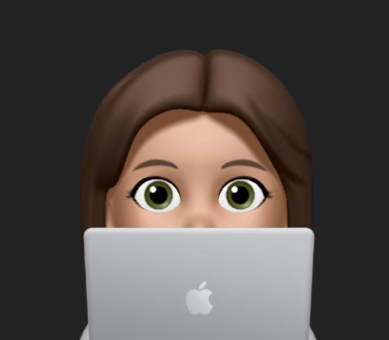
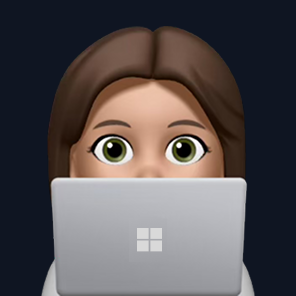
img + disabled theme mode + fond

Changed region(s): [[0.1216, 0.0912, 0.8818, 1.0], [0.4561, 0.7601, 0.5473, 0.9426]]

diff --git a/lib/project.dart b/lib/project.dart
@@ -38,7 +38,7 @@ class _ProjectWidgetState extends State<ProjectWidget> {
             Project(title : "Nutrimeal - Application de partage de recettes", img :"assets/images/nutrimeal_green.png", description: "Nutrimeal est une application mobile développée en Flutter qui permet de créer et de gérer un carnet de recettes personnalisé. Elle offre la possibilité d’ajouter de nombreux détails à chaque recette, comme le temps de préparation, les valeurs nutritionnelles et une note d’évaluation."  ,),
             Project(title : "Chachoumarket - Logiciel de recherche de chemins", img :"assets/images/chachou.png", description: "Chachoumarket est un logiciel développé en Python. Celui-ci a pour but d'optimiser les chemins des clients d'un supermarché. Les utilsateurs rentrent le plan d'un magasin de grande surface et l'application calcule automatqiuement le parcours le plus simple à emprunter parmi les rayons."  ,),
             Project(title : "LotoProno - Site web de predictions pour le Loto", img :"assets/images/loto.png", description: "LotoProno est un site web dynamique qui a pour objectif de fournir des prédictions sur le Loto. Ce projet réalisé par équipe de 5 utilise les données officielles du Loto dans le but de fournir des indications sur le prochain tirage. Ce site est développé en PHP avec une base de données PostgreSql."  ,),
-            Project(title : "Spaceapp - Application mobile sur l'astronomie", img :"assets/images/astronaute.jpg", description: "Développée en Flutter, l'application Spaceapp concerne l'astronomie. Cette application mobile a été conçu pour donner des informations sur les planetes et l'espace à ses utilisateurs. Une fois lancée, vous pourrez y retrouver les astres, le descriptif de certaines planetes et bien plus encore. "  ,),
+            Project(title : "Spaceapp - Application mobile sur l'astronomie", img :"assets/images/space3.png", description: "Développée en Flutter, l'application Spaceapp concerne l'astronomie. Cette application mobile a été conçu pour donner des informations sur les planetes et l'espace à ses utilisateurs. Une fois lancée, vous pourrez y retrouver les astres, le descriptif de certaines planetes et bien plus encore. "  ,),
             Project(title : "Astrophoto - Traitement d'images astronomiques", img :"assets/images/space.png", description: "Nutrimeal est une application mobile développée en Flutter qui permet de créer et de gérer un carnet de recettes personnalisé. Elle offre la possibilité d’ajouter de nombreux détails à chaque recette, comme le temps de préparation, les valeurs nutritionnelles et une note d’évaluation. "  ,),
             Project(title : "Portfolio - Site interactif retrançant mon parcours", img :"assets/images/portfolio.png", description: "Portfolio Personnel réalisé en Javascript Html et CSS dans le cadre de ma recherche d’alternance. Un site web moderne et responsive mettant en valeur mes compétences et mes projets acquis durant mes années de formation. Et je rajoute du texte pour voir la taille."  ,),
 
@@ -195,14 +195,14 @@ class _ProjectState extends State<Project> {
                   ],
                 ),
               
-              // HoverExtensions(
-              //   child: 
+              HoverExtensions(
+                child: 
                 FakeButton(
                   text: "Github",
                   link: "https://github.com/nomimie16/",
                   enabled: true,
                 ),
-              // ),
+              ),
             ])
           ),
         // ),

diff --git a/lib/home.dart b/lib/home.dart
@@ -56,7 +56,7 @@ class _HomePageState extends State<HomePage> {
         children: [
           // --------- Image Fond de page ---------
           Positioned.fill(
-            child: isDarkMode ? Image.asset('assets/images/img.png', fit: BoxFit.cover) : Image.asset('assets/images/white.png', fit: BoxFit.cover),
+            child: isDarkMode ? Image.asset('assets/images/background1.png', fit: BoxFit.cover) : Image.asset('assets/images/white.png', fit: BoxFit.cover),
           ),
 
           Positioned(
@@ -78,30 +78,57 @@ class _HomePageState extends State<HomePage> {
           ),
 
           // -------- Acceuil ---------
+          // Container(
+          // decoration: BoxDecoration(
+          //   color: const Color(0xFF14203A).withOpacity(0.3), // couleur unie
+          // ),
+          // child:
           SingleChildScrollView(
             controller: _scrollController,
-            child:
-             Padding(
-              padding: EdgeInsetsGeometry.symmetric(horizontal: MediaQuery.of(context).size.width * 0.17),
-              child :
-               Column(
-                crossAxisAlignment: CrossAxisAlignment.start,
-                children: [
-                  TopMenu(onThemeChanged: widget.onThemeChanged,),
-                  Profilbanner(),
-                  AboutWidget(),
-                  SizedBox(height: 80),
-                  ExperienceWidget(),
-                  SizedBox(height: 80),
-                  SkillWidget(),
-                  SizedBox(height: 100),
-                  ProjectWidget(),
-                  SizedBox(height: 100),
-                  FooterWidget(),
-                  SizedBox(height: 100),
-                  ],
-              ),
-            )
+            child: Column(
+              crossAxisAlignment: CrossAxisAlignment.start,
+              children: [
+                Padding(
+                  padding: EdgeInsets.symmetric(
+                    horizontal: MediaQuery.of(context).size.width * 0.17,
+                  ),
+                  child: Column(
+                    crossAxisAlignment: CrossAxisAlignment.start,
+                    children: [
+                      TopMenu(onThemeChanged: widget.onThemeChanged),
+                      Profilbanner(),
+                    ],
+                  ),
+                ),
+
+                Container(
+                  width: double.infinity,
+                  decoration: BoxDecoration(
+                    color: const Color(0xFF0C111D).withOpacity(0.6), 
+                  ),
+                  child: Padding(
+                    padding: EdgeInsets.symmetric(
+                      horizontal: MediaQuery.of(context).size.width * 0.17,
+                    ),
+                    child: Column(
+                      crossAxisAlignment: CrossAxisAlignment.start,
+                      children: [
+                        AboutWidget(),
+                        SizedBox(height: 80),
+                        ExperienceWidget(),
+                        SizedBox(height: 80),
+                        SkillWidget(),
+                        SizedBox(height: 100),
+                        ProjectWidget(),
+                        SizedBox(height: 100),
+                        FooterWidget(),
+                        SizedBox(height: 100),
+                      ],
+                    ),
+                  ),
+                ),
+              ],
+            ),
           ),
 
           Positioned(

diff --git a/lib/profilBanner.dart b/lib/profilBanner.dart
@@ -57,18 +57,33 @@ class _ProfilbannerState extends State<Profilbanner> {
         children: [
           // TopMenu(),
           SizedBox(height: 60),
-          ZoMonoCromeBorder(
-            trackBorderColor: GlobalManager.blue,
-            cornerRadius: 100.0,
-            borderStyle: ZoMonoCromeBorderStyle.mirror,
-            borderWidth: 8,
-            duration: const Duration(seconds: 10),
-            child: CircleAvatar(
+          // ZoMonoCromeBorder(
+          //   trackBorderColor: GlobalManager.blue,
+          //   cornerRadius: 100.0,
+          //   borderStyle: ZoMonoCromeBorderStyle.mirror,
+          //   borderWidth: 8,
+          //   duration: const Duration(seconds: 10),
+          //   child: CircleAvatar(
+          //     radius: 90,
+          //     backgroundColor: Colors.transparent,
+          //     backgroundImage: AssetImage('assets/images/avatar.png'),
+          //   ),
+          // ),
+
+          ZoAnimatedGradientBorder(
+            borderRadius: 100,
+            borderThickness: 4,
+            gradientColor: [
+              GlobalManager.pink,
+              GlobalManager.violet,
+              GlobalManager.blue,
+            ],
+            duration: Duration(seconds: 4),
+              child: CircleAvatar(
               radius: 90,
               backgroundColor: Colors.transparent,
-              backgroundImage: AssetImage('assets/images/avatar.png'),
-            ),
-          ),
+              backgroundImage: AssetImage('assets/images/avatar2.png'),  
+          ),),
 
           SizedBox(height: 50),
           Row(
@@ -170,13 +185,6 @@ class FakeButton extends StatelessWidget {
 
   FakeButton({required this.text, required this.enabled, this.link});
 
-  // Uri _getLink(String? link) {
-  //   if (link != null) {
-  //     final Uri url = Uri.parse(link);
-  //     return (url);
-  //   }
-  // }
-
   Uri _getLink(String? link) {
     return Uri.parse(link!);
   }
@@ -195,10 +203,23 @@ class FakeButton extends StatelessWidget {
         padding: MaterialStateProperty.all(
           EdgeInsets.symmetric(horizontal: 13, vertical: 6),
         ),
-        backgroundColor: MaterialStateProperty.all(
-          GlobalManager.blue.withOpacity(0.05),
+        backgroundColor: MaterialStateProperty.resolveWith<Color>(
+          (states) {
+            if (states.contains(MaterialState.disabled)) {
+              return GlobalManager.blue.withOpacity(0.05); 
+            }
+            return GlobalManager.blue.withOpacity(0.05); 
+          },
         ),
-         overlayColor: MaterialStateProperty.all(Colors.transparent), // supprime le gris
+        //  foregroundColor: MaterialStateProperty.resolveWith<Color>(
+        //   (states) {
+        //     if (states.contains(MaterialState.disabled)) {
+        //       return GlobalManager.blue; 
+        //     }
+        //     return Colors.white; 
+        //   },
+        // ),
+         overlayColor: MaterialStateProperty.all(Colors.transparent), 
         shape: MaterialStateProperty.all(
           RoundedRectangleBorder(
             borderRadius: BorderRadius.circular(16),
@@ -209,7 +230,7 @@ class FakeButton extends StatelessWidget {
 
       onPressed: enabled
           ? () { 
-              // launchUrl(_getLink(link));
+              launchUrl(_getLink(link));
             }
           : null,
 

diff --git a/lib/navigation.dart b/lib/navigation.dart
@@ -93,9 +93,9 @@ class _ThemeToggleButtonState extends State<ThemeToggleButton> {
       ),
       onPressed: () {
           // widget.onThemeChanged(isDarkMode ? ThemeMode.dark : ThemeMode.light);
-          final newTheme = isDarkMode ? ThemeMode.light : ThemeMode.dark;
-          widget.onThemeChanged(newTheme);
-          print(isDarkMode);
+          // final newTheme = isDarkMode ? ThemeMode.light : ThemeMode.dark;
+          // widget.onThemeChanged(newTheme);
+          // print(isDarkMode);
           
           // isDarkMode ? _toggleTheme(ThemeMode.dark) : _toggleTheme(ThemeMode.light);
           // isDarkMode = !isDarkMode;
